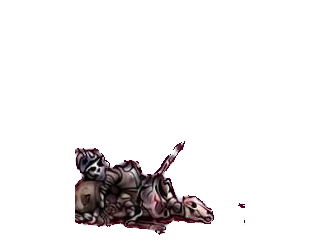
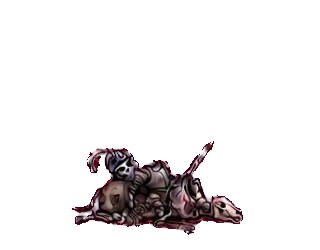
Fix Skeleton Cavalry death frame crops

Changed region(s): [[0.2188, 0.56, 0.7812, 0.952]]

diff --git a/test_v2_motion.js b/test_v2_motion.js
@@ -172,7 +172,7 @@ assert(fs.existsSync(path.join(root, "art/v2-style/animation-sheets/green-raw/ye
 assert(fs.existsSync(path.join(root, "art/v2-style/animation-sheets/green-raw/ghoul-animation-sheet.jpg")), "New raw Ghoul sheet is missing.");
 assert(fs.existsSync(path.join(root, "art/v2-style/animation-sheets/green-raw/minotaur-animation-sheet.jpg")), "New raw Minotaur sheet is missing.");
 assert(fs.existsSync(path.join(root, "art/v2-style/animation-sheets/green-raw/skeleton-cavalry-animation-sheet.jpg")), "New raw Skeleton Cavalry sheet is missing.");
-assert(serviceWorker.includes("necromancer-expedition-v90"), "Service worker cache version was not bumped.");
+assert(serviceWorker.includes("necromancer-expedition-v91"), "Service worker cache version was not bumped.");
 assert(!serviceWorker.includes("animation-sheets/uploaded-raw"), "Deleted legacy animation sheets remain in offline cache.");
 assert(!serviceWorker.includes("animation-test-crops"), "Deleted comparison crops remain in offline cache.");
 for (const match of serviceWorker.matchAll(/^\s*"(\.\/[^"?]+)(?:\?[^\"]*)?"[,]?$/gm)) {

diff --git a/service-worker.js b/service-worker.js
@@ -1,4 +1,4 @@
-const CACHE_NAME = "necromancer-expedition-v90";
+const CACHE_NAME = "necromancer-expedition-v91";
 const APP_SHELL = [
   "./",
   "./index.html",
